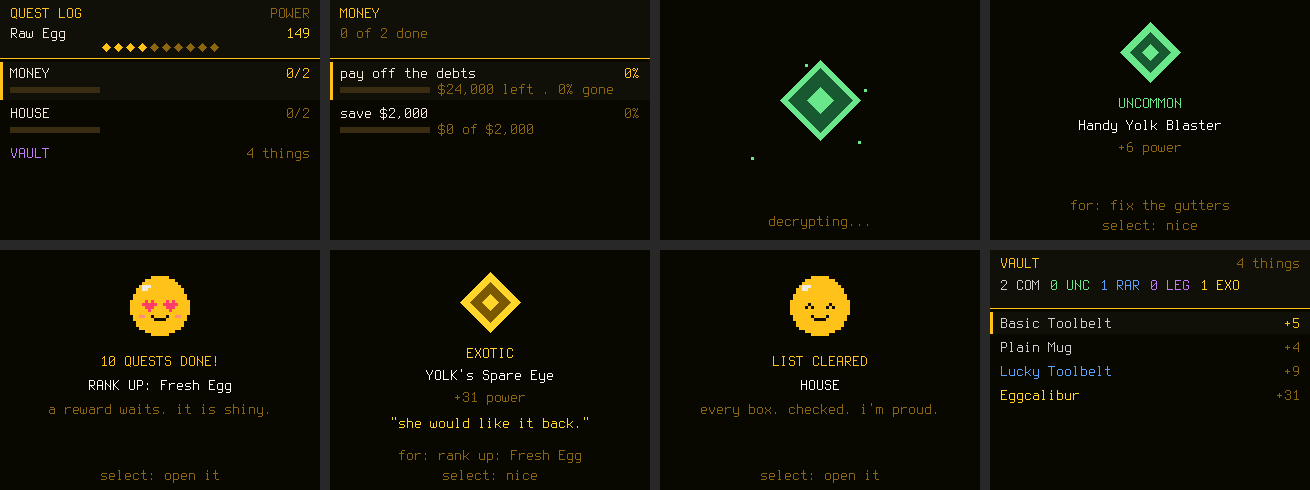
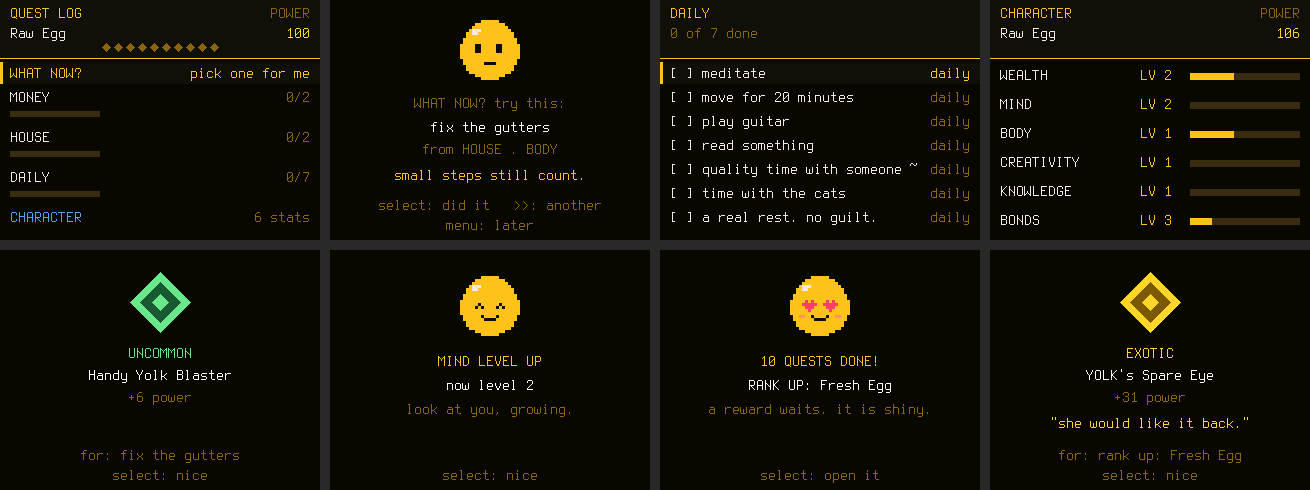
SHELL: QUEST LOG gets six stats, no-guilt dailies and a WHAT NOW? pick

diff --git a/shell/CLAUDE.md b/shell/CLAUDE.md
@@ -5,7 +5,7 @@
 ## Layout
 
 - `root/` **mirrors the iPod drive**: `.rockbox/` (theme `yolk.cfg`, `wps/yolk.wps|sbs` skins, `shortcuts.txt`) and `YOLK/` (the Lua apps).
-- Apps in `root/YOLK/`: `boot.lua` (power-on animation), `talk.lua` (Talk to YOLK + check-ins; `checkin.lua` runs it in check-in-only mode), `moekadex.lua` (Moe lookup; `dreams.lua` reuses it for **Dream Things**, the Yumemono dex), `moto.lua` (MOEtorcycles Mini), `meditate.lua`, `finance.lua`, `quests.lua` (**QUEST LOG**: real-life to-do lists with loot drops, ranks every 10, a vault; lists in `/YOLK/quests/list.txt`, copied from `starter.txt` on first run, progress in `state.txt`, both only on the device; debt quests read FINANCE's numbers), `radio.lua`, `usb.lua`.
+- Apps in `root/YOLK/`: `boot.lua` (power-on animation), `talk.lua` (Talk to YOLK + check-ins; `checkin.lua` runs it in check-in-only mode), `moekadex.lua` (Moe lookup; `dreams.lua` reuses it for **Dream Things**, the Yumemono dex), `moto.lua` (MOEtorcycles Mini), `meditate.lua`, `finance.lua`, `quests.lua` (**QUEST LOG**: real-life lists + dailies with loot drops, six stats, WHAT NOW?, ranks every 10, a vault; lists in `/YOLK/quests/list.txt`, copied from `starter.txt` on first run, progress in `state.txt`, both only on the device; debt quests read FINANCE's numbers), `radio.lua`, `usb.lua`.
 - `tools/`: generators (`gen_art.py`, `gen_moekadex.py`, `gen_dreams.py`, `gen_dex_index.py`, `gen_moto.py`), `backup_shell.py` / `restore_shell.py`, and `sim/` (Rockbox simulator).
 - `backup/`: snapshots of the real drive (gitignored).
 - Generated Moekadex/Dream Things data and images are gitignored (431MB+). Rebuild with the `gen_*.py` scripts.
